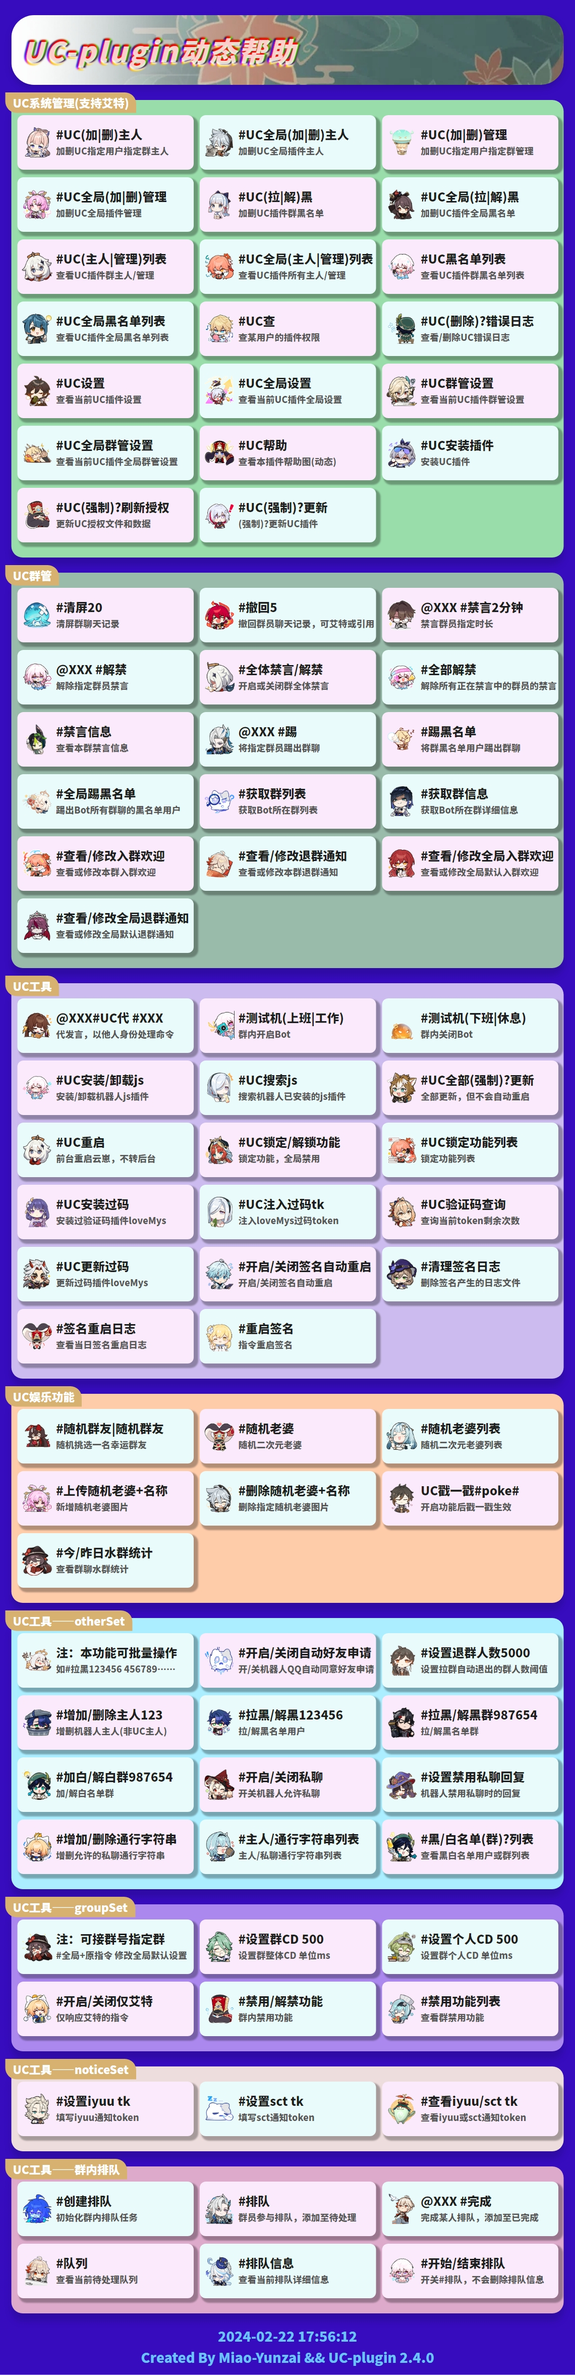
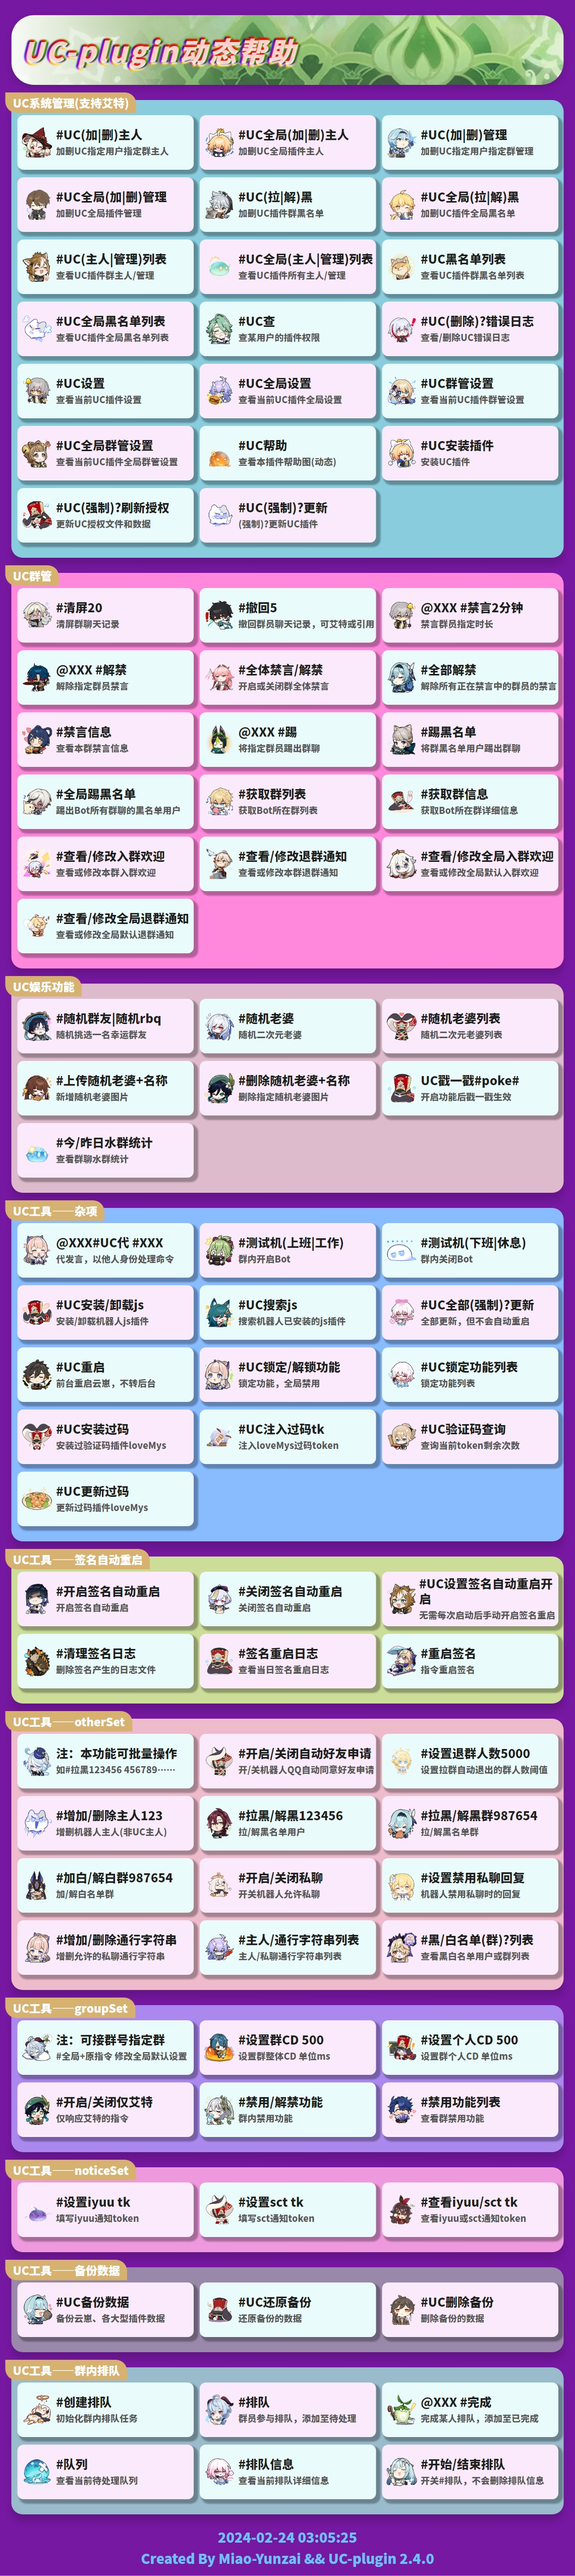
更新帮助图效果

diff --git a/system/help.js b/system/help.js
@@ -227,7 +227,57 @@ helpData.push({
 })
 
 helpData.push({
-  group: 'UC工具',
+  group: 'UC娱乐功能',
+  require: 0,
+  cfg: 'config',
+  list: [
+    s(
+      `#${UCPr.randomMember?.keyWords?.trim() || '随机群友'}`,
+      '随机挑选一名幸运群友',
+      'randomMember.use',
+      'randomMember.isOpen'
+    ),
+    s(
+      '#随机老婆',
+      '随机二次元老婆',
+      '',
+      'randomWife.isOpen'
+    ),
+    s(
+      '#随机老婆列表',
+      '随机二次元老婆列表',
+      '',
+      'randomWife.isOpen'
+    ),
+    s(
+      '#上传随机老婆+名称',
+      '新增随机老婆图片',
+      'randomWife.add',
+      'randomWife.isOpen'
+    ),
+    s(
+      '#删除随机老婆+名称',
+      '删除指定随机老婆图片',
+      'randomWife.del',
+      'randomWife.isOpen'
+    ),
+    s(
+      'UC戳一戳#poke#',
+      '开启功能后戳一戳生效',
+      '',
+      'chuoyichuo.isOpen'
+    ),
+    s(
+      '#今/昨日水群统计',
+      '查看群聊水群统计',
+      'sqtj.use',
+      'sqtj.isOpen'
+    )
+  ]
+})
+
+helpData.push({
+  group: 'UC工具——杂项',
   require: 2,
   cfg: 'config',
   list: [
@@ -278,21 +328,6 @@ helpData.push({
       4
     ),
     s(
-      '#UC备份数据',
-      '备份云崽、各大型插件数据',
-      4
-    ),
-    s(
-      '#UC还原备份',
-      '还原备份的数据',
-      4
-    ),
-    s(
-      '#UC删除备份',
-      '删除备份的数据',
-      4
-    ),
-    s(
       '#UC安装过码',
       '安装过验证码插件loveMys',
       4
@@ -311,83 +346,43 @@ helpData.push({
       '#UC更新过码',
       '更新过码插件loveMys',
       4
-    ),
-    s(
-      '#开启/关闭签名自动重启',
-      '开启/关闭签名自动重启',
-      4,
-      isWin
-    ),
-    s(
-      '#清理签名日志',
-      '删除签名产生的日志文件',
-      4,
-      isWin
-    ),
-    s(
-      '#签名重启日志',
-      '查看当日签名重启日志',
-      4,
-      isWin
-    ),
-    s(
-      '#重启签名',
-      '指令重启签名',
-      4,
-      isWin
     )
   ]
 })
 
-helpData.push({
-  group: 'UC娱乐功能',
-  require: 0,
-  cfg: 'config',
-  list: [
-    s(
-      `#${UCPr.randomMember?.keyWords?.trim() || '随机群友'}`,
-      '随机挑选一名幸运群友',
-      'randomMember.use',
-      'randomMember.isOpen'
-    ),
-    s(
-      '#随机老婆',
-      '随机二次元老婆',
-      '',
-      'randomWife.isOpen'
-    ),
-    s(
-      '#随机老婆列表',
-      '随机二次元老婆列表',
-      '',
-      'randomWife.isOpen'
-    ),
-    s(
-      '#上传随机老婆+名称',
-      '新增随机老婆图片',
-      'randomWife.add',
-      'randomWife.isOpen'
-    ),
-    s(
-      '#删除随机老婆+名称',
-      '删除指定随机老婆图片',
-      'randomWife.del',
-      'randomWife.isOpen'
-    ),
-    s(
-      'UC戳一戳#poke#',
-      '开启功能后戳一戳生效',
-      '',
-      'chuoyichuo.isOpen'
-    ),
-    s(
-      '#今/昨日水群统计',
-      '查看群聊水群统计',
-      'sqtj.use',
-      'sqtj.isOpen'
-    )
-  ]
-})
+if (isWin) {
+  helpData.push({
+    group: 'UC工具——签名自动重启',
+    require: 4,
+    cfg: 'config',
+    list: [
+      s(
+        '#开启签名自动重启',
+        '开启签名自动重启'
+      ),
+      s(
+        '#关闭签名自动重启',
+        '关闭签名自动重启'
+      ),
+      s(
+        '#UC设置签名自动重启开启',
+        '无需每次启动后手动开启签名重启'
+      ),
+      s(
+        '#清理签名日志',
+        '删除签名产生的日志文件'
+      ),
+      s(
+        '#签名重启日志',
+        '查看当日签名重启日志'
+      ),
+      s(
+        '#重启签名',
+        '指令重启签名'
+      )
+    ]
+  })
+}
 
 helpData.push({
   group: 'UC工具——otherSet',
@@ -494,6 +489,26 @@ helpData.push({
     s(
       '#查看iyuu/sct tk',
       '查看iyuu或sct通知token'
+    )
+  ]
+})
+
+helpData.push({
+  group: 'UC工具——备份数据',
+  require: 4,
+  cfg: 'config',
+  list: [
+    s(
+      '#UC备份数据',
+      '备份云崽、各大型插件数据'
+    ),
+    s(
+      '#UC还原备份',
+      '还原备份的数据'
+    ),
+    s(
+      '#UC删除备份',
+      '删除备份的数据'
     )
   ]
 })
